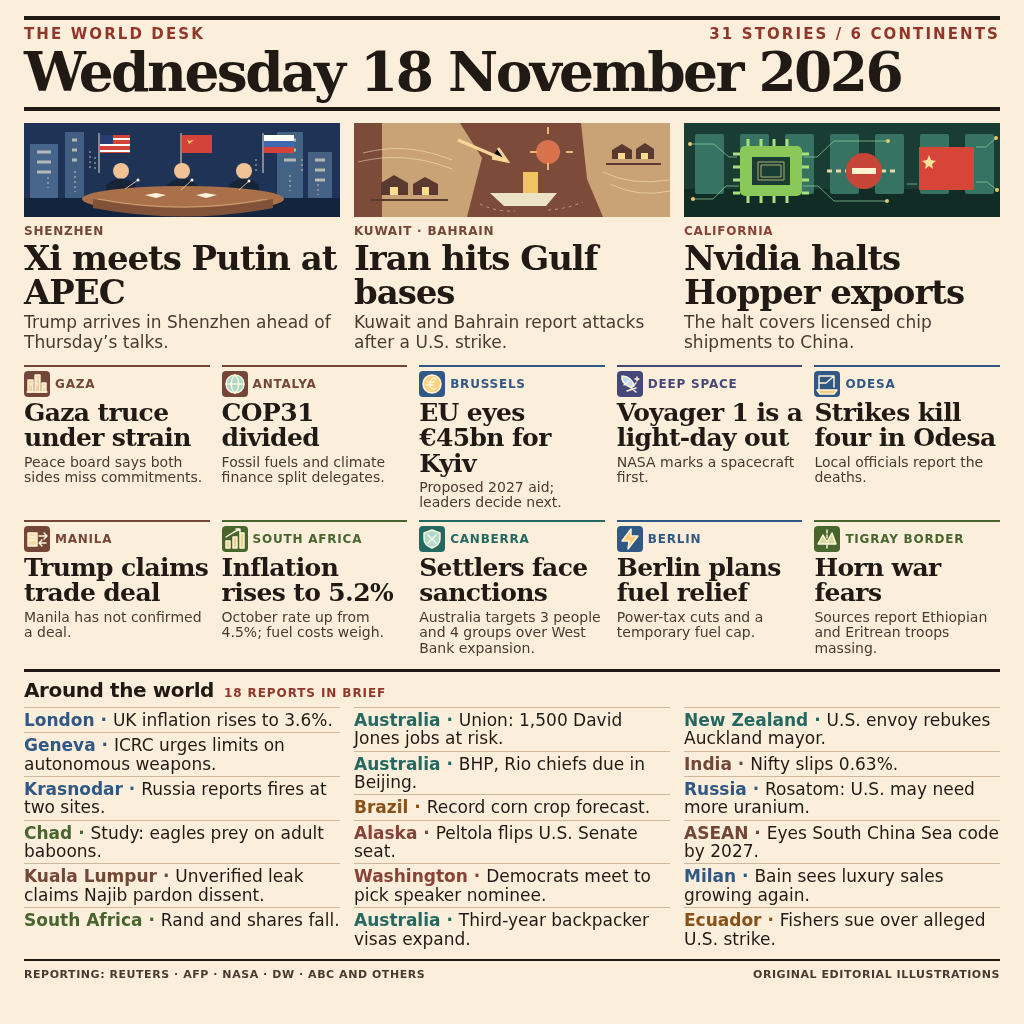
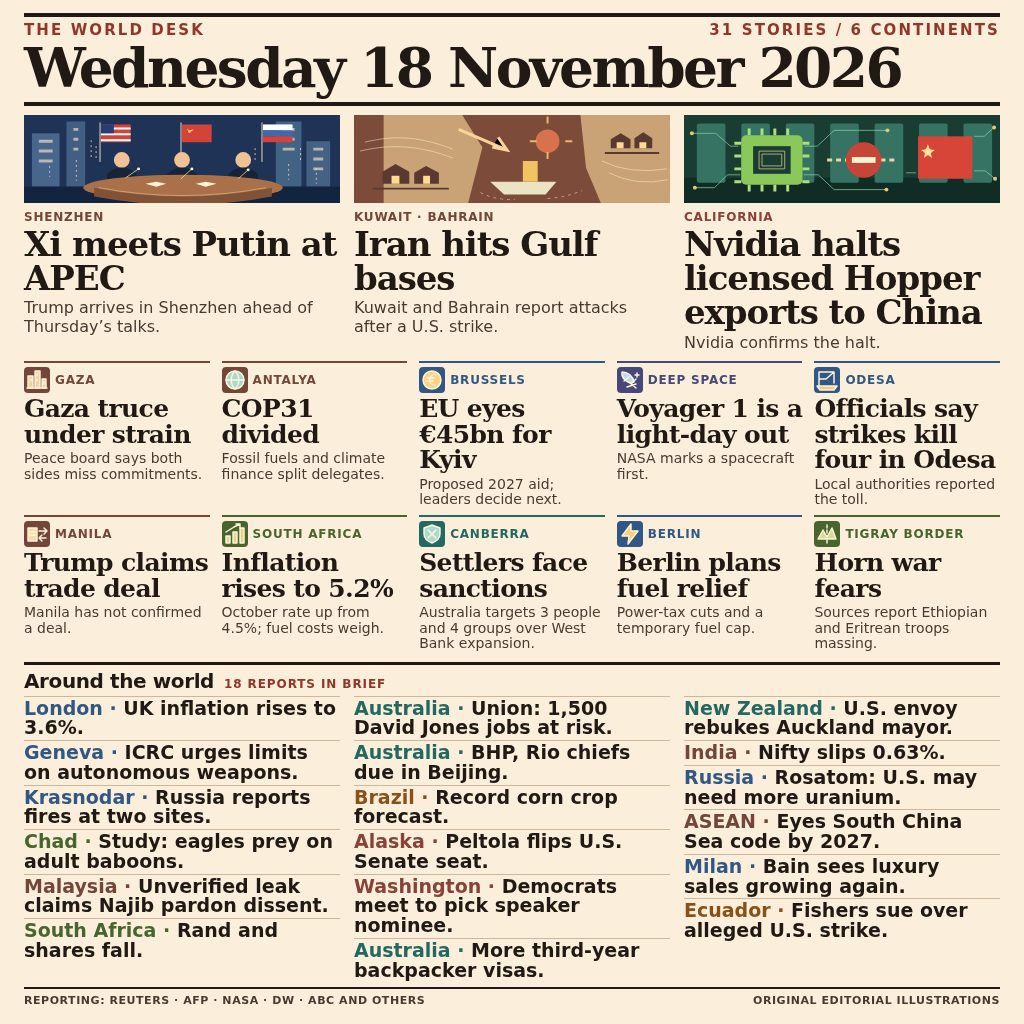
Clarify sourced headlines and strengthen news briefs

Changed region(s): [[0.0, 0.0, 1.0, 1.0], [0.6562, 0.6875, 0.9688, 1.0]]

diff --git a/edition.css b/edition.css
@@ -11,39 +11,39 @@ body {
   width: 1024px;
   min-height: 1024px;
   margin: 0 auto;
-  padding: 16px 24px 12px;
+  padding: 13px 24px 9px;
   background: var(--paper);
   color: var(--ink);
   font: 16px Arial, sans-serif;
 }
 h1, h2, p { margin: 0; }
 h1, article h2 { font-family: Georgia, 'Times New Roman', serif; }
-header { padding: 5px 0 6px; border-block: 4px solid var(--ink); }
+header { padding: 4px 0 5px; border-block: 4px solid var(--ink); }
 .strap, footer { display: flex; justify-content: space-between; gap: 8px; }
 .strap { font-size: 15px; font-weight: 800; letter-spacing: .14em; color: var(--red); }
 h1 { font-size: 55px; line-height: 1.05; letter-spacing: -.047em; }
 .lead, .mid { display: grid; }
-.lead { grid-template-columns: repeat(3, minmax(0, 1fr)); gap: 14px; margin-top: 12px; }
-.mid { grid-template-columns: repeat(5, minmax(0, 1fr)); gap: 9px 12px; margin-top: 12px; }
+.lead { grid-template-columns: repeat(3, minmax(0, 1fr)); gap: 14px; margin-top: 9px; }
+.mid { grid-template-columns: repeat(5, minmax(0, 1fr)); gap: 8px 12px; margin-top: 9px; }
 article { min-width: 0; }
-.scene svg { display: block; width: 100%; height: 94px; }
+.scene svg { display: block; width: 100%; height: 88px; }
 .meta { display: flex; align-items: center; gap: 5px; color: var(--desk); font-weight: 800; text-transform: uppercase; font-size: 12px; letter-spacing: .065em; }
 .lead .meta { margin: 7px 0 3px; }
 .lead h2 { font-size: 34px; line-height: 1.01; letter-spacing: -.031em; }
 .deck { color: var(--soft-ink); margin-top: 4px; line-height: 1.15; }
-.lead .deck { font-size: 17px; }
+.lead .deck { font-size: 16px; }
 .mid article { border-top: 2px solid var(--desk); padding-top: 4px; }
 .mid .meta { margin-bottom: 3px; }
 .icon svg { display: block; width: 26px; height: 26px; }
 .mid h2 { font-size: 25px; line-height: 1.02; letter-spacing: -.025em; }
 .mid .deck { font-size: 14px; line-height: 1.1; }
-.bottom { margin-top: 13px; border-top: 3px solid var(--ink); }
-.bottom h2 { display: flex; gap: 10px; align-items: baseline; padding: 6px 0 5px; font-size: 20px; letter-spacing: -.02em; }
+.bottom { margin-top: 10px; border-top: 3px solid var(--ink); }
+.bottom h2 { display: flex; gap: 10px; align-items: baseline; padding: 4px 0 3px; font-size: 20px; letter-spacing: -.02em; }
 .bottom h2 span { font-size: 12px; color: var(--red); letter-spacing: .075em; text-transform: uppercase; }
 .briefs { list-style: none; padding: 0; margin: 0; columns: 3; column-gap: 14px; }
-.briefs li { break-inside: avoid; border-top: 1px solid var(--rule); font-size: 17px; line-height: 1.08; padding: 3px 0; }
+.briefs li { break-inside: avoid; border-top: 1px solid var(--rule); font-size: 19px; font-weight: 600; line-height: 1.04; padding: 2px 0; }
 .brief-place { color: var(--desk); }
-footer { border-top: 2px solid var(--ink); padding-top: 7px; margin-top: 8px; font-size: 11px; font-weight: 700; text-transform: uppercase; letter-spacing: .05em; color: var(--soft-ink); }
+footer { border-top: 2px solid var(--ink); padding-top: 5px; margin-top: 5px; font-size: 11px; font-weight: 700; text-transform: uppercase; letter-spacing: .05em; color: var(--soft-ink); }
 footer a { color: inherit; text-decoration: none; }
 footer a:hover, footer a:focus-visible { text-decoration: underline; }
 @media (max-width: 1023px) {

diff --git a/stories.js b/stories.js
@@ -2,12 +2,12 @@
 const stories = [
  ['Shenzhen','AS',22.54,114.06,'Xi meets Putin at APEC','Trump arrives in Shenzhen ahead of Thursday’s talks.','summit'],
  ['Kuwait · Bahrain','AS',29.38,47.99,'Iran hits Gulf bases','Kuwait and Bahrain report attacks after a U.S. strike.','gulf'],
- ['California','NA',37.35,-121.95,'Nvidia halts Hopper exports','The halt covers licensed chip shipments to China.','chip'],
+ ['California','NA',37.35,-121.95,'Nvidia halts licensed Hopper exports to China','Nvidia confirms the halt.','chip'],
  ['Gaza','AS',31.50,34.47,'Gaza truce under strain','Peace board says both sides miss commitments.','gaza'],
  ['Antalya','AS',36.90,30.70,'COP31 divided','Fossil fuels and climate finance split delegates.','climate'],
  ['Brussels','EU',50.85,4.35,'EU eyes €45bn for Kyiv','Proposed 2027 aid; leaders decide next.','loan'],
  ['Deep space','SP',0,0,'Voyager 1 is a light-day out','NASA marks a spacecraft first.','voyager',false],
- ['Odesa','EU',46.48,30.73,'Strikes kill four in Odesa','Local officials report the deaths.','port'],
+ ['Odesa','EU',46.48,30.73,'Officials say strikes kill four in Odesa','Local authorities reported the toll.','port'],
  ['Manila','AS',14.60,120.98,'Trump claims trade deal','Manila has not confirmed a deal.','trade'],
  ['South Africa','AF',-25.75,28.19,'Inflation rises to 5.2%','October rate up from 4.5%; fuel costs weigh.','inflation'],
  ['Canberra','OC',-35.28,149.13,'Settlers face sanctions','Australia targets 3 people and 4 groups over West Bank expansion.','sanctions'],
@@ -17,14 +17,14 @@ const stories = [
  ['Geneva','EU',46.20,6.15,'ICRC urges limits on autonomous weapons.'],
  ['Krasnodar','EU',45.04,38.98,'Russia reports fires at two sites.'],
  ['Chad','AF',17.0,22.0,'Study: eagles prey on adult baboons.'],
- ['Kuala Lumpur','AS',3.14,101.69,'Unverified leak claims Najib pardon dissent.'],
+ ['Malaysia','AS',3.14,101.69,'Unverified leak claims Najib pardon dissent.'],
  ['South Africa','AF',-26.20,28.05,'Rand and shares fall.'],
  ['Australia','OC',-33.87,151.21,'Union: 1,500 David Jones jobs at risk.'],
  ['Australia','OC',-37.81,144.96,'BHP, Rio chiefs due in Beijing.'],
  ['Brazil','SA',-15.79,-47.88,'Record corn crop forecast.'],
  ['Alaska','NA',61.22,-149.90,'Peltola flips U.S. Senate seat.'],
  ['Washington','NA',38.90,-77.04,'Democrats meet to pick speaker nominee.'],
- ['Australia','OC',-35.28,149.13,'Third-year backpacker visas expand.'],
+ ['Australia','OC',-35.28,149.13,'More third-year backpacker visas.'],
  ['New Zealand','OC',-36.85,174.76,'U.S. envoy rebukes Auckland mayor.'],
  ['India','AS',19.08,72.88,'Nifty slips 0.63%.'],
  ['Russia','EU',55.76,37.62,'Rosatom: U.S. may need more uranium.'],
